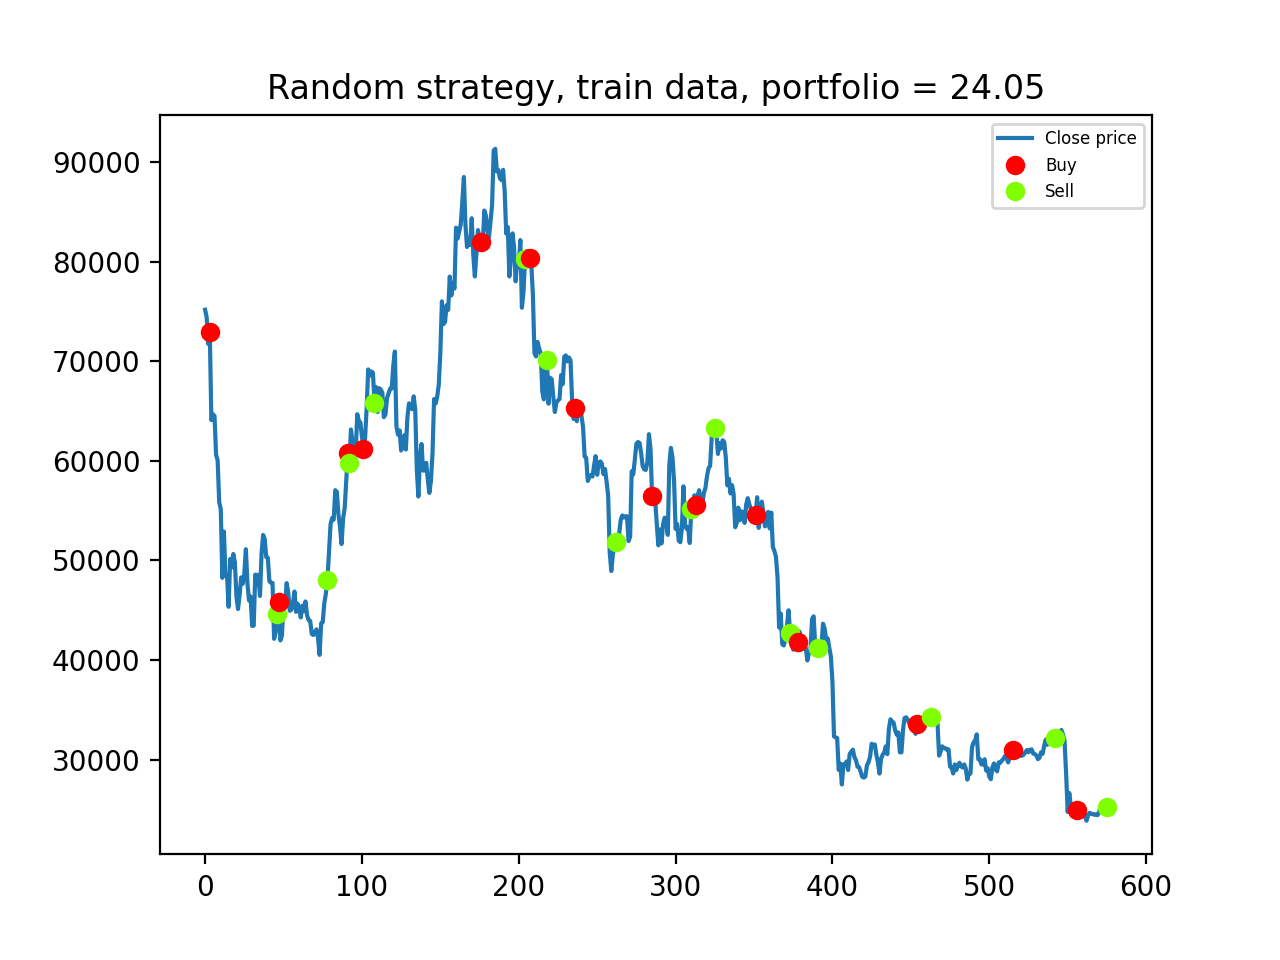
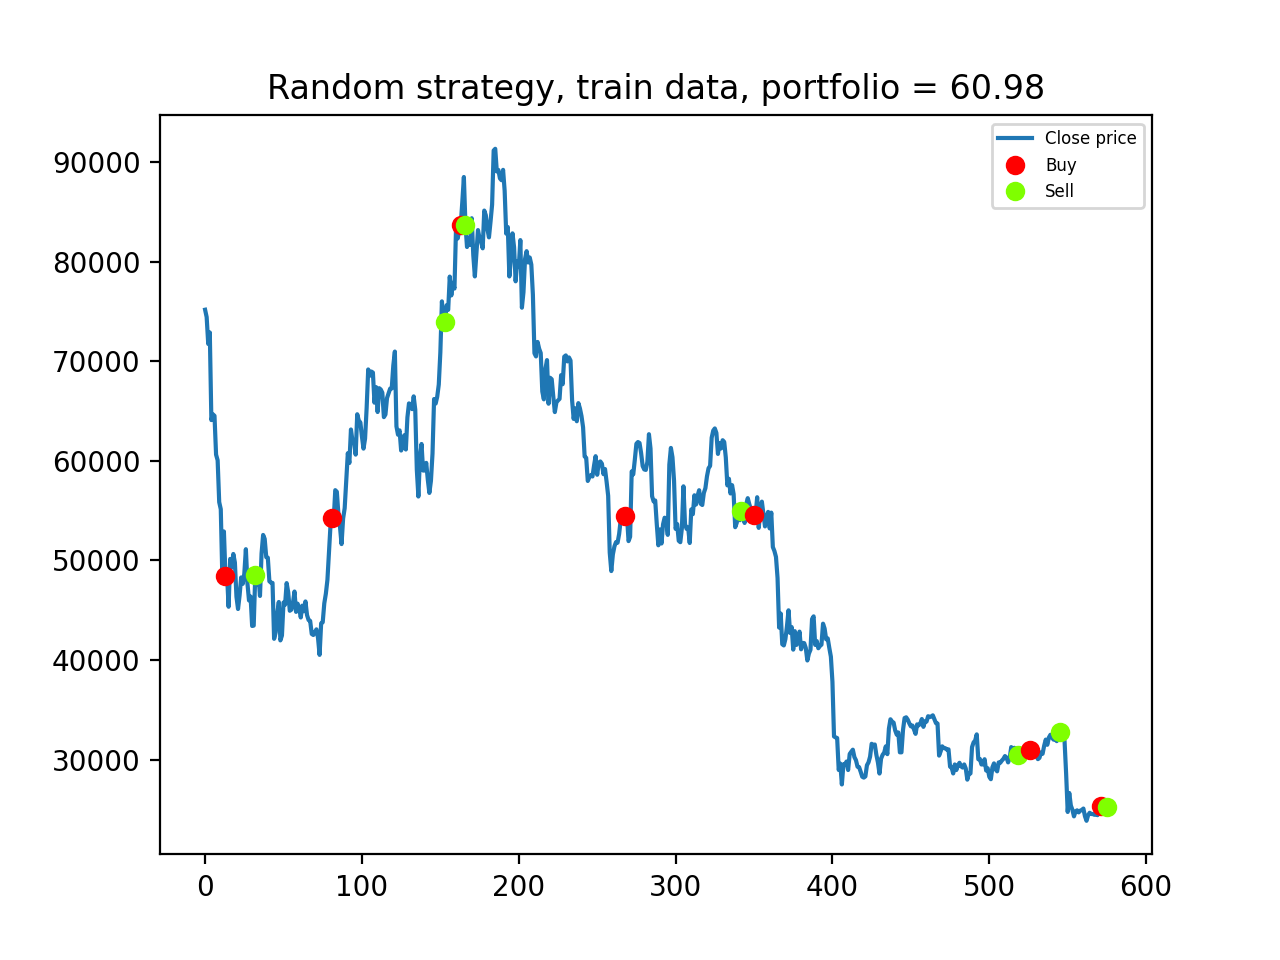
results

diff --git a/results.py b/results.py
@@ -15,10 +15,6 @@ if __name__ == "__main__":
   candles = test_candles
 
   fit = Fitness()
-
-  best_portfolio = None # best bots from training data, save to file
-  best_sortino = None
-
   
   for train in [True, False]:
     candles = train_candles if train else test_candles
@@ -30,6 +26,9 @@ if __name__ == "__main__":
         "portfolio50",
         "portfolio100",
         "portfolio200"]:
+      
+      best_overall = None # best bots from training data, save to file
+
       sortinos = []
       portfolios = []
 
@@ -39,11 +38,11 @@ if __name__ == "__main__":
 
         if 'portfolio' in n:
           best = sorted([Strategy.load_pickle_data(candles, d) for d in data], key=lambda s: s.portfolio)[-1]
-          if train and (best_portfolio is None or best.portfolio > best_portfolio.portfolio): best_portfolio = best
+          if (best_overall is None or best.portfolio > best_overall.portfolio): best_overall = best
           
         else:
           best = sorted([Strategy.load_pickle_data(candles, d) for d in data], key=lambda s: fit.get_fitness(s))[-1]
-          if train and (best_sortino is None or fit.get_fitness(best) > fit.get_fitness(best_sortino)): best_sortino = best
+          if (best_overall is None or fit.get_fitness(best) > fit.get_fitness(best_overall)): best_overall = best
         
         portfolios.append(best.portfolio)
         sortinos.append(fit.get_fitness(best))
@@ -56,10 +55,6 @@ if __name__ == "__main__":
           else:
             f.write(f'{n}, {max(sortinos):.4f} {max(portfolios):.4f}\n')
   
-  with open('results/best_portfolio.pkl', "wb") as f:
-    pickle.dump(p:=best_portfolio.get_pickle_data(), f)
-  with open('results/best_sortino.pkl', "wb") as f:
-    pickle.dump(s:=best_sortino.get_pickle_data(), f)
-
-  with open('results/best_chromosome.txt', 'w') as f:
-    f.write(f"{p['buy_chromosome']}\n{p['sell_chromosome']}")
+      if train:
+        with open(f'results/best_{n}.pkl', "wb") as f:
+          pickle.dump(p:=best_overall.get_pickle_data(), f)

diff --git a/graph.py b/graph.py
@@ -30,23 +30,27 @@ if __name__ == '__main__':
   print(f'simple {s.portfolio:.4f} {fit.get_fitness(s):.4f}')
 
   # portfolio
-  with open('results/best_portfolio.pkl', 'rb') as f:
-    best_portfolio = Strategy.load_pickle_data(candles, pickle.load(f))
+  for n in [
+        "sortino50",
+        "sortino100",
+        "sortino200",
+        "portfolio50",
+        "portfolio100",
+        "portfolio200"]:
+    with open(f'results/best_{n}.pkl', 'rb') as f:
+      best = Strategy.load_pickle_data(candles, pickle.load(f))
 
-  best_portfolio.evaluate(
-      graph=True,
-      fname=f'graphs/best_portfolio_{dataset}.png',
-      title=f'Best strategy portfolio, {dataset} data')
+      if n == 'portfolio100':
+        with open('results/best_chromosome_portfolio_test.txt', 'w') as fp:
+          fp.write(f'{best.buy_chromosome}\n{best.sell_chromosome}')
+      if n=='sortino100':
+        with open('results/best_chromosome_sortino_test.txt', 'w') as fp:
+          fp.write(f'{best.buy_chromosome}\n{best.sell_chromosome}')
 
-  # print(f'{best.portfolio:.4f}, {best.buy_chromosome} {best.sell_chromosome}')
+      best.evaluate(
+          graph=True,
+          fname=f'graphs/best_{n}_{dataset}.png',
+          title=f'Best strategy {n} {("sortino =" + str(round(fit.get_fitness(best),4))) if "sortino" in n else ""}, {dataset} data')
 
-  # sortino
-  with open('results/best_sortino.pkl', 'rb') as f:
-    best_sortino = Strategy.load_pickle_data(candles, pickle.load(f))
 
-  best_sortino.evaluate(
-      graph=True,
-      fname=f'graphs/best_sortino_{dataset}.png',
-      title=f'Best strategy sortino, {dataset} data, sortino = {fit.get_fitness(best_sortino):.4f}')
-
-  print(f'{fit.get_fitness(best_sortino):.4f} {best_sortino.portfolio:.4f}, {best_sortino.buy_chromosome} {best_sortino.sell_chromosome}')
+  # print(f'{fit.get_fitness(best_sortino):.4f} {best_sortino.portfolio:.4f}, {best_sortino.buy_chromosome} {best_sortino.sell_chromosome}')

diff --git a/chromosome.py b/chromosome.py
@@ -367,7 +367,6 @@ class ChromosomeHandler:
     c.C_NAME = f"{prefix}{c.C_NAME}"
     return c
 
-
 if __name__ == "__main__":
   """Example usage"""
   from candle import get_candles
